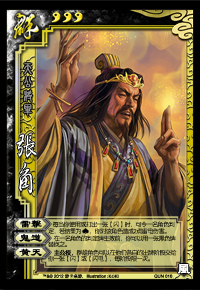
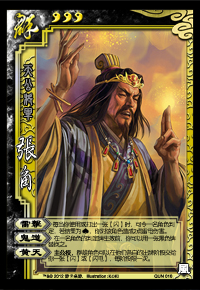
调整部分武将图的称号和名称位置 修复了几个孙权技能的bug 杀反摸牌规则微调

Changed region(s): [[0.06, 0.1862, 0.21, 0.6828]]

diff --git a/src/pass/pass-package.cpp b/src/pass/pass-package.cpp
@@ -1142,11 +1142,6 @@ void QuanmouPassCard::onEffect(const CardEffectStruct &effect) const{
     const Card *card = Sanguosha->getCard(card_id);
     bool is_public = room->getCardPlace(card_id) != Player::Hand;
     room->moveCardTo(card, effect.from, Player::Hand, is_public ? true : false);
-
-    QList<ServerPlayer *> targets = room->getOtherPlayers(effect.to);
-    ServerPlayer *target = room->askForPlayerChosen(effect.from, targets, "quanmou_p");
-    if(target != effect.from)
-        room->moveCardTo(card, target, Player::Hand, false);
 }
 
 class QuanmouPass: public OneCardViewAsSkill{
@@ -1234,17 +1229,15 @@ public:
 class DanmouPass: public TriggerSkill{
 public:
     DanmouPass():TriggerSkill("danmou_p"){
-        events << DrawNCards << PhaseChange;
+        events << PhaseChange;
     }
 
     virtual bool trigger(TriggerEvent event, ServerPlayer *player, QVariant &data) const{
         Room *room = player->getRoom();
-        if(event == DrawNCards){
-            if(room->askForSkillInvoke(player,objectName())){
-                data = data.toInt() + 2;
-                room->setPlayerFlag(player,objectName());
-            }
-        }else if(event == PhaseChange && player->getPhase() == Player::Finish){
+        if(player->getPhase() == Player::Start && room->askForSkillInvoke(player,objectName())){
+            player->drawCards(2);
+            room->setPlayerFlag(player,objectName());
+        }else if(player->getPhase() == Player::Finish){
             if(!player->hasFlag(objectName()))
                 return false ;
             int x = 3 ;
@@ -3917,7 +3910,7 @@ PassPackage::PassPackage()
                 << new Skill("tieji_p")
            << new WanghouPass << new QiangyunPass << new XiaoxiongPass
            << new HujiangPass << new AoguPass << new ZhongyiPass  << new CaiqingPass << new DuoyiPass
-           << new LiangjiangPass << new FenyongPass << new WuliePass << new QuanmouPass << new DuduPass
+           << new LiangjiangPass << new FenyongPass << new WuliePass << new QuanmouPass << new Skill("shanshe_p") << new DuduPass
              << new ZhejiePass << new DanmouPass
            << new FeijiangPass << new ZhunuePass << new DoushenPass
               ;

diff --git a/src/scenario/pass-mode-scenario.cpp b/src/scenario/pass-mode-scenario.cpp
@@ -323,10 +323,10 @@ bool PassModeRule::trigger(TriggerEvent event, ServerPlayer *player, QVariant &d
 
         if(player->getRole() == "rebel"){
             DamageStar damage = data.value<DamageStar>();
-            if((!damage || damage->from != lord)){
+            if(!damage || !damage->from){
                 lord->drawCards(3);
             }else{
-                if(lord->hasAbility("killdraw")){
+                if(damage && damage->from == lord && lord->hasAbility("killdraw")){
                     lord->drawCards(1);
                 }
             }
@@ -502,7 +502,7 @@ SaveDataStruct* PassMode::catchSaveInfo(Room *room){
     foreach(QString skill_name, skill_names){
         const Skill *skill = Sanguosha->getSkill(skill_name);
         if(getUnsaveSkillNames().contains(skill_name) || skill->inherits("WeaponSkill") || skill->inherits("ArmorSkill")
-                || skill_name == "axe" || skill_name == "spear")
+                || skill_name == "axe" || skill_name == "spear" || skill_name == "fan")
             continue;
         if(skill->isVisible())
             lord_skills << skill_name;

diff --git a/src/server/room.cpp b/src/server/room.cpp
@@ -2315,13 +2315,16 @@ void Room::damage(const DamageStruct &damage_data){
     }
 
     // DamageProceed
-    bool prevent = thread->trigger(DamageProceed, damage_data.to, data);
+    bool prevent = thread->trigger(DamagedProceed, damage_data.to, data);
     if(prevent)
         return;
 
     // DamagedProceed
-    if(thread->trigger(DamageProceed, damage_data.from, data))
-        return;
+    if(damage_data.from){
+        if(thread->trigger(DamageProceed, damage_data.from, data))
+            return;
+    }
+
 
     // predamaged
     bool broken = thread->trigger(Predamaged, damage_data.to, data);

diff --git a/src/core/player.cpp b/src/core/player.cpp
@@ -163,6 +163,8 @@ int Player::getAttackRange() const{
         range = 1;
     if(hasSkill("shenshe_p"))
         range *= 2 ;
+    if(hasSkill("shanshe_p"))
+        range += 1 ;
     range += getAbilityLevel("slashrange") ;
     return range ;
 }
